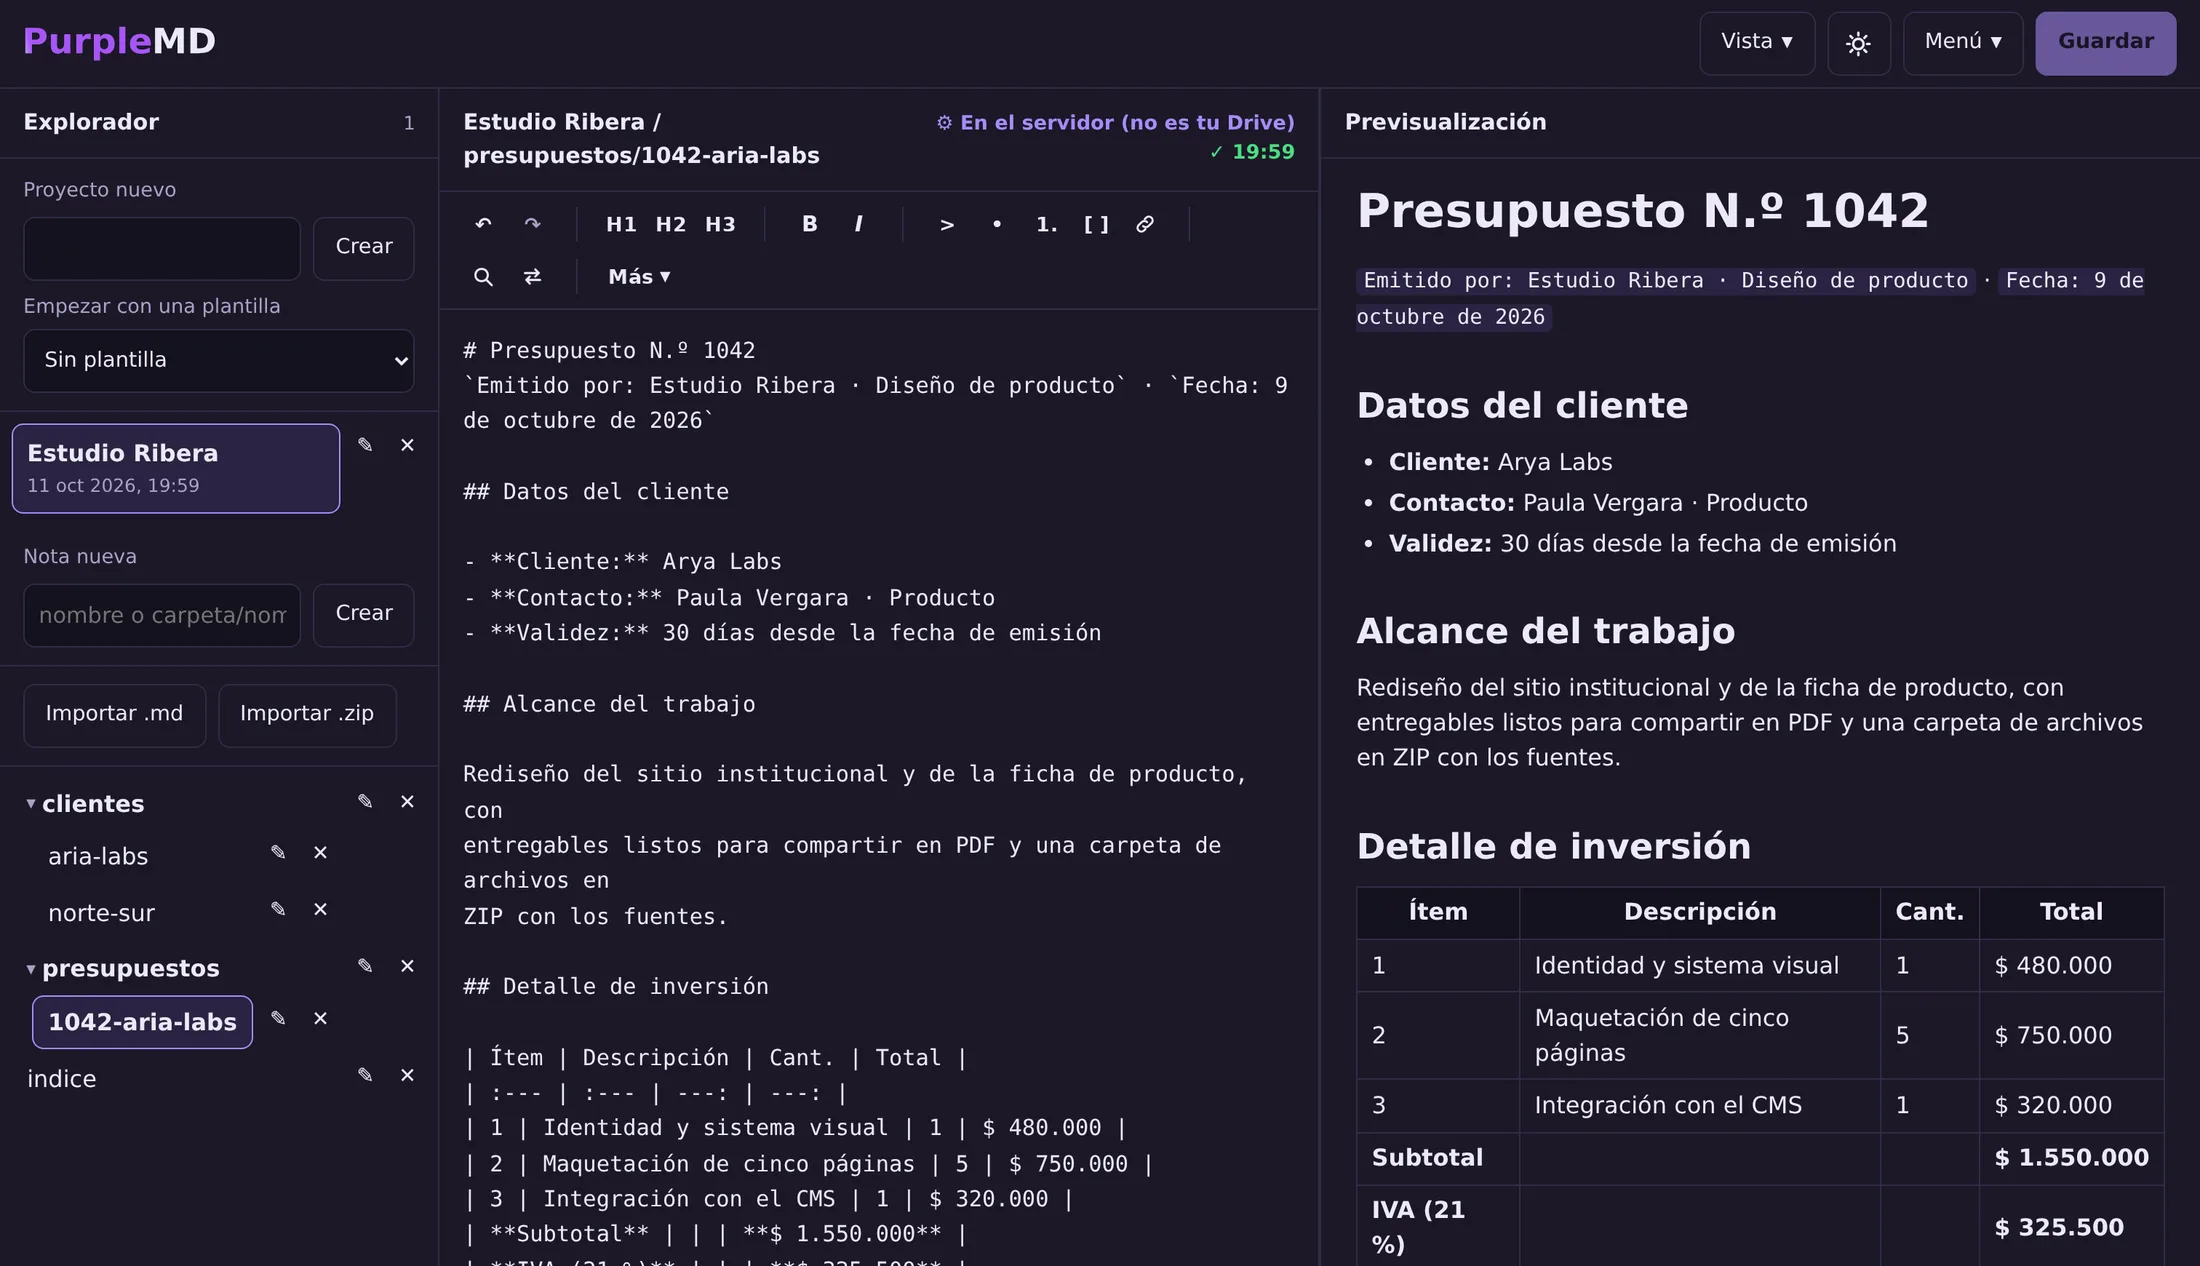
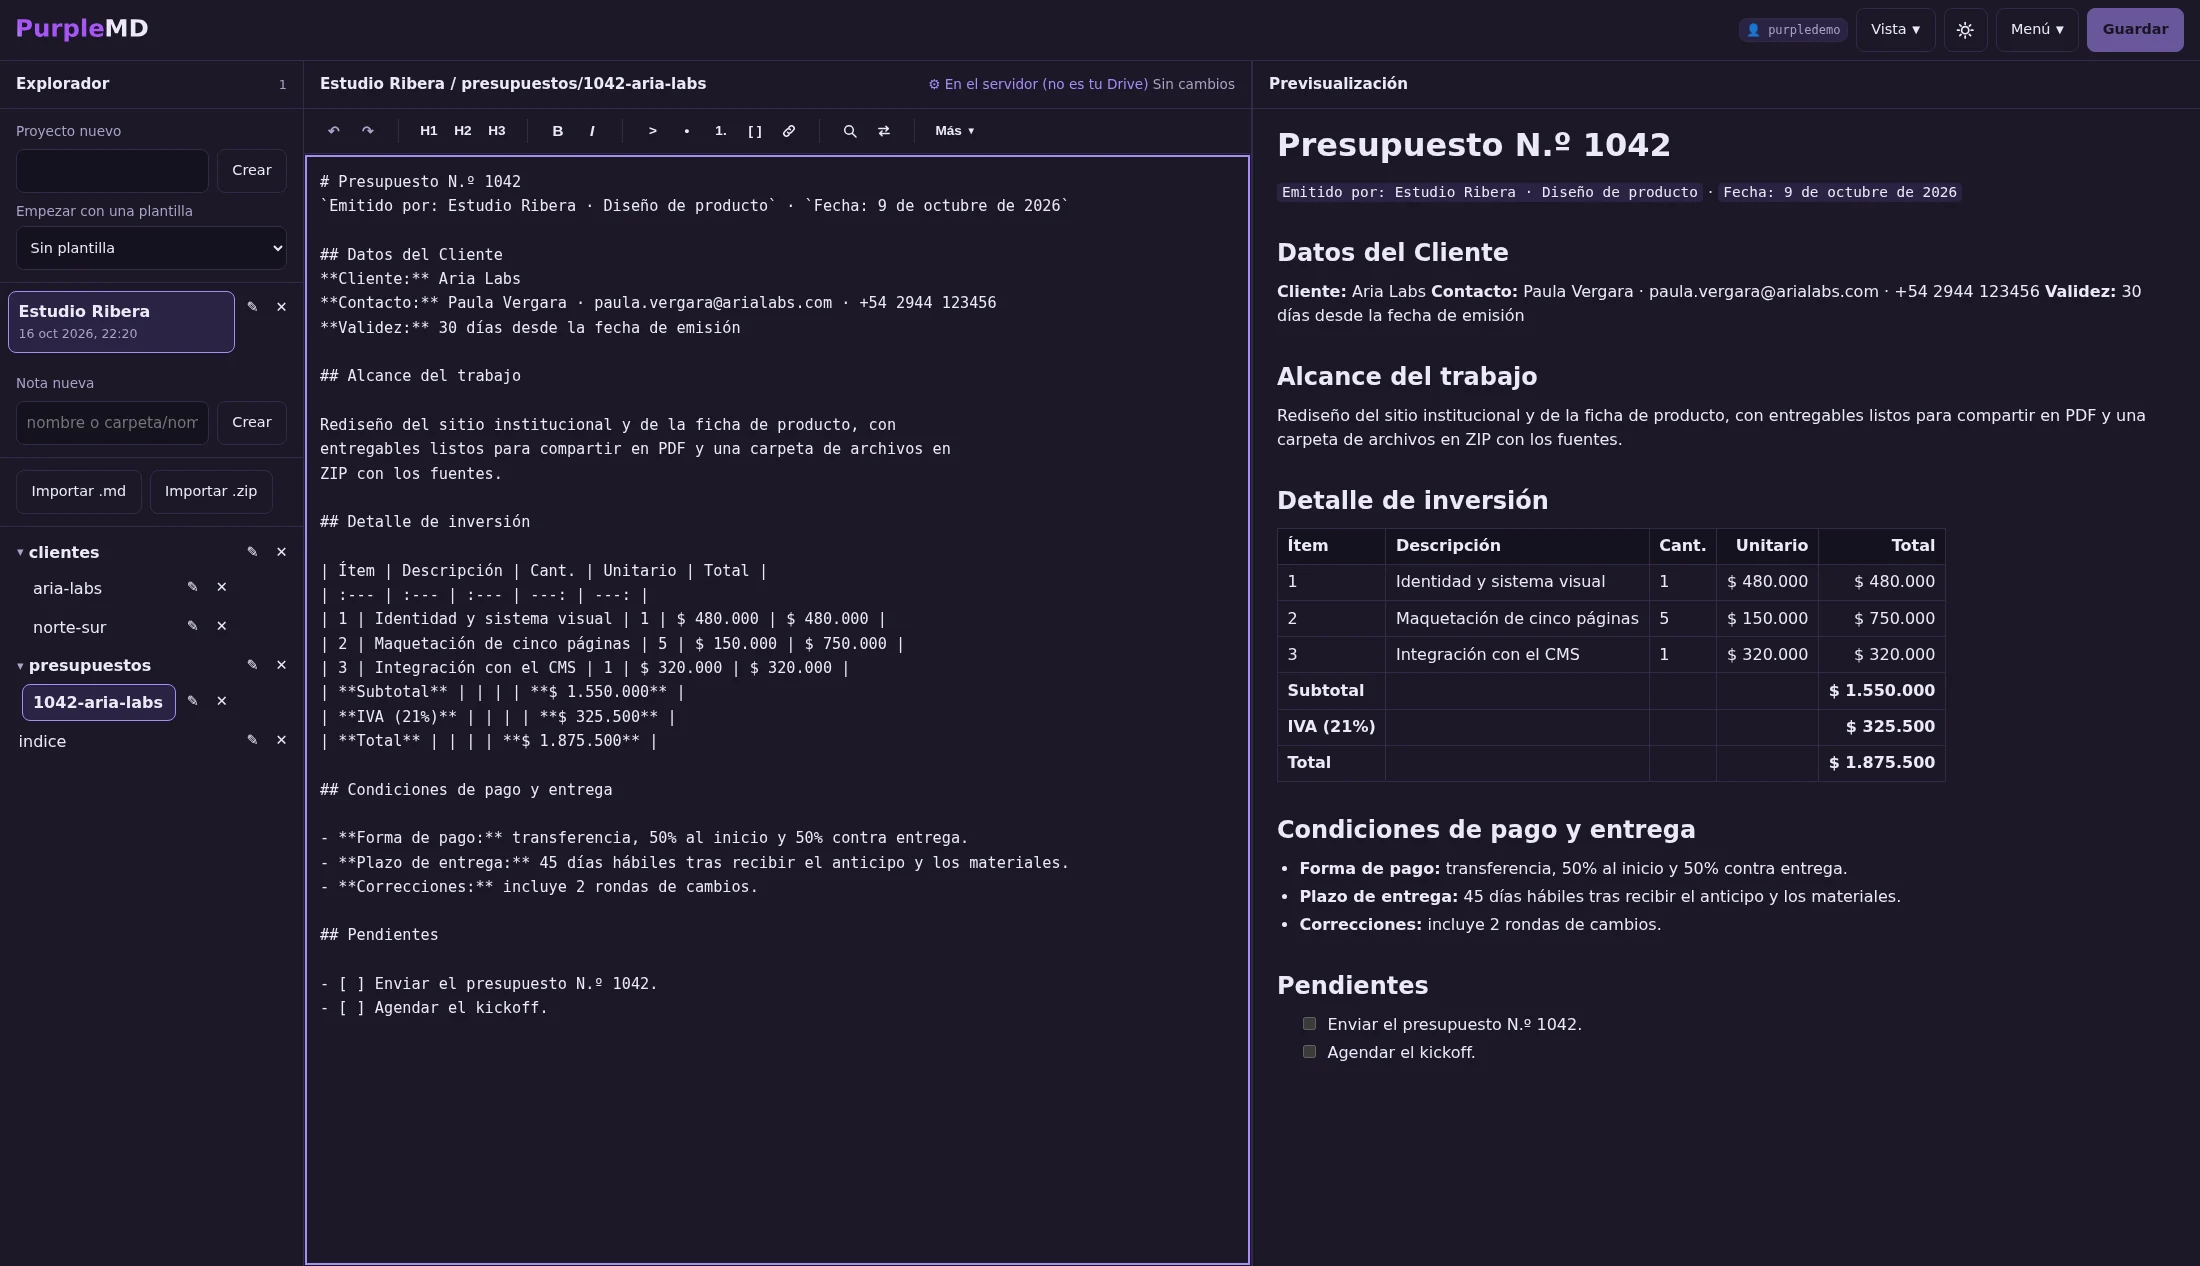
fix: alinear capturas con el documento real y acortar el copy
Las capturas del editor y del PDF exportado mostraban dos documentos
distintos: fechas, ítems, columnas e IVA distintos, que solo coincidían
en el total. Se nota armado.

Las tres capturas ahora salen del producto corriendo: PurpleMD levantado
en podman, proyecto Estudio Ribera sembrado en filesystem y Playwright
para abrir la nota en la UI. El PDF sale del WeasyPrint de la propia
app. El markdown del editor es byte a byte idéntico al archivo que
exporta el PDF, y el ZIP que lista la sección Exportar contiene
exactamente los cuatro archivos que dice la landing.

Como el panel MCP de la landing afirma '1.875.500 con IVA', la fuente de
verdad es el editor (1.550.000 + 21%) y el PDF se regeneró desde ahí.
Aprovecha para unificar 'Arya Labs' por 'Aria Labs', ya que las rutas
dicen aria-labs.

Copy: 22% menos de texto (3.311 a 2.578 caracteres) sin perder ninguna
de las dos puertas ni el diferenciador MCP.

diff --git a/index.html b/index.html
@@ -4,7 +4,7 @@
   <meta charset="utf-8">
   <meta name="viewport" content="width=device-width, initial-scale=1, viewport-fit=cover">
   <title>Purple · Software que trabaja a tu manera</title>
-  <meta name="description" content="PurpleMD: editor Markdown con vista previa en vivo, proyectos organizados, exportación a PDF y ZIP y servidor MCP. Gratis para vos; para organizaciones, licencia comercial, soporte e integración a medida.">
+  <meta name="description" content="PurpleMD: editor Markdown con vista previa en vivo, proyectos en carpetas, exportación a PDF y ZIP y servidor MCP. Gratis; para organizaciones, licencia comercial y soporte.">
   <meta name="theme-color" content="#6d28d9">
   <link rel="icon" type="image/svg+xml" href="static/assets/purple.svg">
   <link rel="canonical" href="https://purple.com.ar/">
@@ -14,11 +14,11 @@
   <meta property="og:locale" content="es_AR">
   <meta property="og:url" content="https://purple.com.ar/">
   <meta property="og:title" content="Purple · Software que trabaja a tu manera">
-  <meta property="og:description" content="PurpleMD: editor Markdown con vista previa en vivo, proyectos organizados, exportación a PDF y ZIP y servidor MCP. Gratis para vos; para organizaciones, licencia comercial, soporte e integración a medida.">
+  <meta property="og:description" content="PurpleMD: editor Markdown con vista previa en vivo, proyectos en carpetas, exportación a PDF y ZIP y servidor MCP. Gratis; para organizaciones, licencia comercial y soporte.">
   <meta property="og:image" content="https://purple.com.ar/static/assets/og-image.png">
   <meta name="twitter:card" content="summary_large_image">
   <meta name="twitter:title" content="Purple · Software que trabaja a tu manera">
-  <meta name="twitter:description" content="PurpleMD: editor Markdown con vista previa en vivo, proyectos organizados, exportación a PDF y ZIP y servidor MCP. Gratis para vos; para organizaciones, licencia comercial, soporte e integración a medida.">
+  <meta name="twitter:description" content="PurpleMD: editor Markdown con vista previa en vivo, proyectos en carpetas, exportación a PDF y ZIP y servidor MCP. Gratis; para organizaciones, licencia comercial y soporte.">
   <meta name="twitter:image" content="https://purple.com.ar/static/assets/og-image.png">
 
   <link rel="preload" href="static/fonts/inter-latin.woff2" as="font" type="font/woff2" crossorigin>
@@ -126,10 +126,8 @@
         </h1>
 
         <p class="hero-bajada">
-          Purple crea herramientas directas de usar y cuidadas en los detalles,
-          alrededor de cómo trabajan las personas. La primera es PurpleMD: un
-          editor Markdown que usás gratis, o que implementás en tu organización
-          con licencia comercial y soporte.
+          Purple hace herramientas directas y cuidadas. La primera es PurpleMD: un
+          editor Markdown que usás gratis o implementás en tu organización.
         </p>
 
         <div class="hero-ctas">
@@ -151,9 +149,8 @@
           <p class="etiqueta">PurpleMD</p>
           <h2 class="titulo-seccion" id="purplemd-titulo">Escribí en Markdown.<br>El resto lo hace PurpleMD.</h2>
           <p class="bajada">
-            Vista previa en vivo mientras escribís, proyectos organizados y exportación
-            a PDF o ZIP cuando el documento está listo. La misma herramienta para vos
-            y para la organización donde trabajás.
+            Vista previa en vivo mientras escribís, proyectos en carpetas y exportación
+            a PDF o ZIP. Lo mismo para vos que para tu organización.
           </p>
         </header>
 
@@ -198,17 +195,17 @@
           <li class="valor">
             <span class="valor-indice" aria-hidden="true">01</span>
             <h3 class="valor-titulo">Escribí con fluidez</h3>
-            <p class="valor-texto">Editá Markdown y consultá la vista previa mientras trabajás. Guardás cuando querés, con <kbd>Ctrl</kbd>/<kbd>Cmd</kbd>&nbsp;+&nbsp;<kbd>S</kbd>.</p>
+            <p class="valor-texto">Vista previa en vivo mientras editás. Guardás cuando querés, con <kbd>Ctrl</kbd>/<kbd>Cmd</kbd>&nbsp;+&nbsp;<kbd>S</kbd>.</p>
           </li>
           <li class="valor">
             <span class="valor-indice" aria-hidden="true">02</span>
             <h3 class="valor-titulo">Mantené tus ideas organizadas</h3>
-            <p class="valor-texto">Carpetas anidadas dentro de cada proyecto, con árbol plegable e importación desde archivos <code>.md</code> o <code>.zip</code>.</p>
+            <p class="valor-texto">Carpetas anidadas por proyecto, árbol plegable e importación desde <code>.md</code> o <code>.zip</code>.</p>
           </li>
           <li class="valor">
             <span class="valor-indice" aria-hidden="true">03</span>
             <h3 class="valor-titulo">Conectá tus herramientas</h3>
-            <p class="valor-texto">El servidor MCP integrado deja que una herramienta compatible lea, busque y organice tus notas sin sacarte del flujo donde ya trabajás.</p>
+            <p class="valor-texto">Una herramienta compatible con MCP lee, busca y organiza tus notas sin sacarte del flujo.</p>
           </li>
         </ul>
       </div>
@@ -221,10 +218,9 @@
           <p class="etiqueta">Servidor MCP</p>
           <h2 class="titulo-seccion" id="mcp-titulo">Tus notas, conectadas con tus herramientas.</h2>
           <p class="bajada">
-            Conectá PurpleMD con un cliente compatible con MCP y llevá el contexto de tus
-            notas a donde ya trabajás: resumir, buscar y retomar ideas sin cambiar de
-            aplicación. Es lo que más nos diferencia y también el punto de partida para
-            adaptar PurpleMD al flujo de un equipo.
+            Conectá PurpleMD a un cliente compatible con MCP y llevá tus notas a donde
+            ya trabajás. Es lo que más nos diferencia, y el punto de partida para
+            adaptarlo al flujo de un equipo.
           </p>
         </header>
 
@@ -240,10 +236,11 @@
               <span class="panel-ruta">Proyecto Estudio Ribera&nbsp;/&nbsp;clientes/aria-labs</span>
             </header>
             <div class="panel-cuerpo">
-              <h3 class="nota-titulo">Arya Labs</h3>
+              <h3 class="nota-titulo">Aria Labs</h3>
               <p class="nota-linea">Contacto: Paula Vergara · Rubro: software.</p>
               <p class="nota-linea">Trabajo en curso: rediseño del sitio institucional.</p>
               <p class="nota-pendiente"><span class="casilla" aria-hidden="true"></span>Enviar el presupuesto N.º 1042.</p>
+              <p class="nota-pendiente"><span class="casilla" aria-hidden="true"></span>Agendar el kickoff.</p>
             </div>
           </article>
 
@@ -264,10 +261,10 @@
               <span class="panel-ruta">conectado a PurpleMD</span>
             </header>
             <div class="panel-cuerpo">
-              <p class="mensaje mensaje-usuario">¿Qué falta con Arya Labs y en qué estado está el presupuesto?</p>
+              <p class="mensaje mensaje-usuario">¿Qué falta con Aria Labs y en qué estado está el presupuesto?</p>
               <p class="mensaje mensaje-respuesta">
                 Falta enviar el presupuesto N.º 1042, por $ 1.875.500 con IVA, y agendar
-                el kickoff. El trabajo en curso es el rediseño del sitio institucional.
+                el kickoff.
               </p>
               <p class="mensaje-nota">Leído en tus notas de PurpleMD.</p>
             </div>
@@ -276,10 +273,8 @@
 
         <div class="mcp-pie">
           <p class="nota-pie">
-            Caso de uso real: un estudio lleva clientes, trabajos en curso y presupuestos
-            en PurpleMD y consulta ese estado desde un cliente MCP sin salir de su flujo.
-            PurpleMD expone tus proyectos y notas —leer, buscar, crear y mover— a clientes
-            compatibles con el protocolo MCP.
+            Caso de uso real: un estudio lleva clientes y presupuestos en PurpleMD y los
+            consulta desde un cliente MCP. Exponemos leer, buscar, crear y mover notas.
           </p>
           <a class="enlace-flecha" href="https://github.com/ltrecanao/purplemd#mcp" target="_blank" rel="noopener noreferrer">
             Ver la documentación de MCP
@@ -299,8 +294,7 @@
           <p class="etiqueta">Exportación</p>
           <h2 class="titulo-seccion" id="exportar-titulo">Tus ideas, listas para compartir.</h2>
           <p class="bajada">
-            Convertí tus documentos —apuntes, informes, presupuestos— en PDF bien
-            presentados, con una estructura clara y una lectura cuidada.
+            Del Markdown a un PDF presentado, con jerarquía clara y lectura cuidada.
           </p>
         </header>
 
@@ -310,7 +304,7 @@
               src="static/assets/presupuesto-1042.webp"
               width="900" height="1273"
               loading="lazy" decoding="async"
-              alt="Página A4 exportada desde PurpleMD: «Presupuesto N.º 1042», datos del cliente, alcance, tabla de inversión con subtotal, IVA y total, condiciones de pago, lista de entregables y casillas de pendientes.">
+              alt="Página A4 exportada desde PurpleMD: «Presupuesto N.º 1042», datos del cliente, alcance del trabajo, tabla de inversión con unitario, subtotal, IVA y total, condiciones de pago y entrega y casillas de pendientes.">
             <figcaption>Exportación real de PurpleMD, página A4.</figcaption>
           </figure>
 
@@ -318,17 +312,15 @@
             <div class="detalle">
               <h3 class="detalle-titulo">PDF de una nota</h3>
               <p class="detalle-texto">
-                Desde el menú, <strong>Exportar .pdf</strong>. Títulos, listas, tablas y
-                bloques de código con jerarquía clara, numeración de páginas y un pie
-                propio.
+                Desde el menú, <strong>Exportar .pdf</strong>. Jerarquía clara,
+                numeración de páginas y pie propio.
               </p>
             </div>
 
             <div class="detalle">
               <h3 class="detalle-titulo">Llevate todo tu proyecto</h3>
               <p class="detalle-texto">
-                Exportá el proyecto completo en <code>.zip</code> para guardarlo, respaldarlo
-                o llevarlo a donde quieras.
+                Todo el proyecto en <code>.zip</code>: guardalo, respaldalo o llevátelo.
               </p>
               <ul class="archivo-lista" aria-label="Contenido de un proyecto exportado">
                 <li><span class="archivo-icono" aria-hidden="true"></span>indice.md</li>
@@ -350,10 +342,10 @@
             <p class="etiqueta">Organizaciones</p>
             <h2 class="titulo-seccion-chico" id="empresas-titulo">¿Necesitás PurpleMD en tu organización?</h2>
             <p class="bajada enterprise-bajada">
-              Podés usar PurpleMD gratis, con su licencia libre AGPL-3.0. Cuando tiene que
-              entrar en una organización, ahí aparecemos nosotros: licencia comercial,
-              soporte, integración con tu infraestructura y servidor MCP adaptado a tu
-              flujo. Contanos qué necesitás: <a class="enlace" href="mailto:purple.empresas@proton.me?subject=Consulta%20para%20organizaciones%20-%20Purple">purple.empresas@proton.me</a>.
+              Gratis con la licencia libre AGPL-3.0. En una organización: licencia
+              comercial, soporte, integración con tu infraestructura y servidor MCP a
+              medida. Escribinos a
+              <a class="enlace" href="mailto:purple.empresas@proton.me?subject=Consulta%20para%20organizaciones%20-%20Purple">purple.empresas@proton.me</a>.
             </p>
           </div>
           <div class="enterprise-accion">
